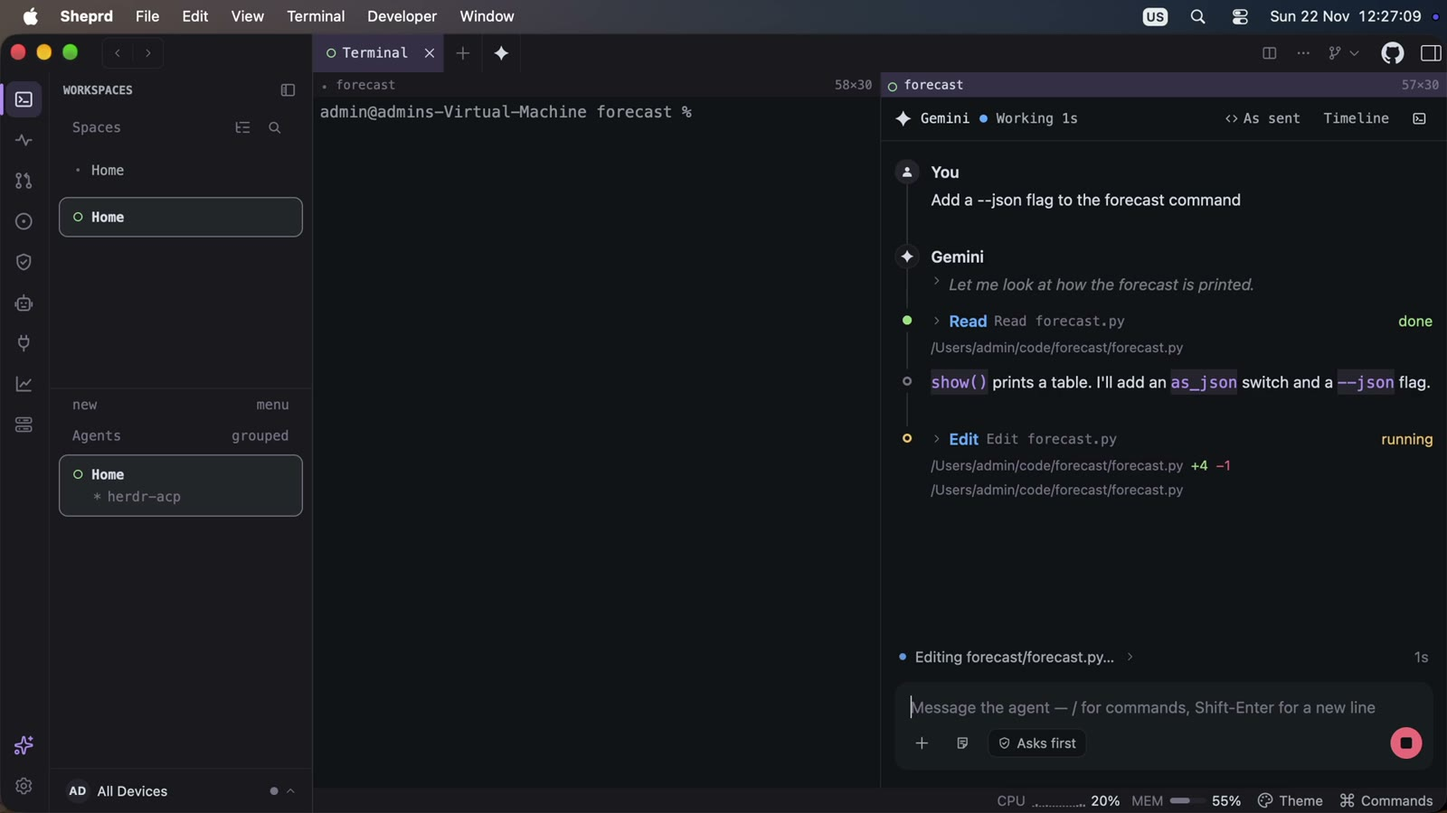
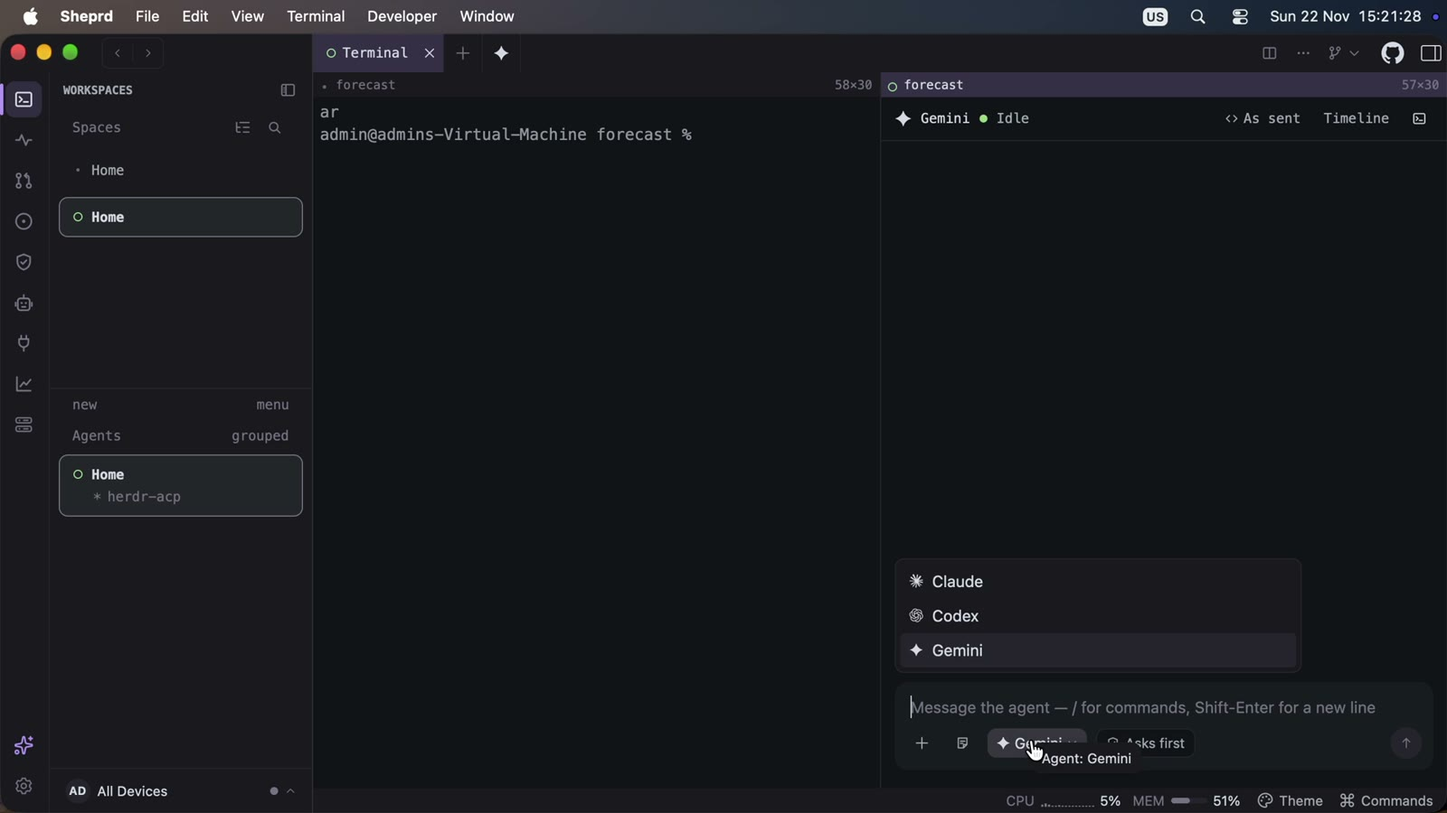
feat(site): show switching agents in the agent chat guide
The guide starts its chat from the agent button beside the new tab button, as the app offers it, and shows the agent menu that switches between Claude, Codex, Gemini and the others installed. Its page explains both.

diff --git a/website/site/features/index.html b/website/site/features/index.html
@@ -35,10 +35,10 @@
 <p class="feature-count" aria-live="polite"><span id="feature-count">5</span> of 5 features</p>
 </search>
 <ul class="feature-grid" id="feature-grid"><li class="feature-card" data-id="agent-chat" data-category="Agents"><a href="/features/agent-chat/">
-<span class="card-media"><img src="/assets/feature-clips/agent-chat.jpg" width="1600" height="900" loading="lazy" alt=""><span class="card-time">▶ 0:27</span></span>
+<span class="card-media"><img src="/assets/feature-clips/agent-chat.jpg" width="1600" height="900" loading="lazy" alt=""><span class="card-time">▶ 0:33</span></span>
 <span class="card-meta">01 / Agents</span>
 <span class="card-title">Native agent chats</span>
-<span class="card-dek">Your coding agents in a real chat, beside the terminal. Every file read, edit and test run is a card you can open.</span></a></li><li class="feature-card" data-id="review-changes" data-category="Review"><a href="/features/review-changes/">
+<span class="card-dek">Claude, Codex, Gemini and more in a real chat beside the terminal. Switch agents any time; every read, edit and test run is a card you can open.</span></a></li><li class="feature-card" data-id="review-changes" data-category="Review"><a href="/features/review-changes/">
 <span class="card-media"><img src="/assets/feature-clips/review-changes.jpg" width="1600" height="900" loading="lazy" alt=""><span class="card-time">▶ 0:22</span></span>
 <span class="card-meta">02 / Review</span>
 <span class="card-title">Review Changes</span>
@@ -56,7 +56,7 @@
 <span class="card-title">Themes with live preview</span>
 <span class="card-dek">Dark, light, or somewhere in between. Preview a theme across the whole window before you make it yours.</span></a></li></ul>
 <p class="feature-empty" id="feature-empty" hidden>Nothing matches yet. Try another word, or <a href="/docs/">search the documentation</a>.</p>
-<script type="application/json" id="feature-index">[{"id": "agent-chat", "category": "Agents", "text": "Native agent chats Agents Talk to your agents. See their work. Your coding agents in a real chat, beside the terminal. Every file read, edit and test run is a card you can open. ACP agent chat claude codex gemini assistant conversation prompt tool calls Start a chat Click the sparkle button in the tab bar for a new agent chat in the current workspace. Ask for the change Type what you need and press Return. The agent works in your checkout. Follow every step Each read, edit and command shows as a card with its files and output, so nothing happens out of sight. Sheprd runs your coding agents in native chats, beside your terminal. Sheprd fait tourner vos agents de code dans de vrais chats, à côté de votre terminal. Start one with the sparkle button, and ask for what you need. Lancez-en un avec le bouton étincelle, et demandez ce qu'il vous faut. The agent reads your code, makes the change and runs the tests, step by step. L'agent lit votre code, fait la modification et lance les tests, étape par étape. Every step is a card: what it read, the lines it changed, and what the tests said. Chaque étape est une carte : ce qu'il a lu, les lignes modifiées, et le résultat des tests. And the answer arrives formatted, ready for you to review. Et la réponse arrive mise en forme, prête à être relue."}, {"id": "review-changes", "category": "Review", "text": "Review Changes Review Read it before it ships. Every file an agent touched, beside the code it replaces, with notes that go straight back to the agent. diff git code review notes comments uncommitted branch viewed Open Review Changes Search for it in the command palette. It lists every file with uncommitted changes, or everything since the base branch. Note what should change Click a line number, describe the change and add the note. Notes go to the workspace's agent. Keep track Mark each file viewed once it looks right, and hide viewed files to see what is left. Before you ship what an agent wrote, review it in Sheprd. Avant de livrer ce qu'un agent a écrit, relisez-le dans Sheprd. Open Review Changes from the palette: every file the work touched. Ouvrez « Relire les changements » depuis la palette : chaque fichier modifié. Each change sits beside the code it replaces. Chaque modification s'affiche face au code qu'elle remplace. Click a line number to leave a note for the agent. Cliquez sur un numéro de ligne pour laisser une note à l'agent. Then mark the file viewed, and move on to the next. Puis marquez le fichier comme vu, et passez au suivant."}, {"id": "command-palette", "category": "Navigation", "text": "The command palette Navigation Everything, one shortcut away. Workspaces, terminals, agents and every command in one list. Type a few letters, press Return. search shortcut keyboard actions commands navigation quick open Open it Press Command Shift P (Control Shift P on Linux and Windows). Type and go A few letters find a workspace, a terminal, an agent or a command. Return runs it. Narrow it down The chips at the top keep only navigation, commands, projects or notes. Everything in Sheprd is a few keystrokes away, in the command palette. Dans Sheprd, tout est à quelques touches, dans la palette de commandes. Press Command Shift P: workspaces, terminals, agents and commands, in one list. Appuyez sur Commande Majuscule P : espaces de travail, terminaux, agents et commandes, dans une seule liste. Type a few letters and press Return. Here, a split beside the terminal. Tapez quelques lettres et appuyez sur Entrée. Ici, une division à côté du terminal. The chips at the top narrow the list, for example to commands only. Les filtres du haut réduisent la liste, par exemple aux seules commandes. Escape closes it, right where you left off. Échap la ferme, et vous reprenez là où vous en étiez."}, {"id": "browser-tabs", "category": "Browser", "text": "Browser tabs Browser The web, beside your terminal. Preview what your agents build and point at what should change, without leaving Sheprd. web page preview localhost annotate notes webview url Open a browser tab Press Command Shift B and type an address. Preview as you work Keep the page next to the agent building it, and reload as it changes. Point at the change Annotate, then click an element or select text, and describe what should change. Web pages open in tabs, right beside your terminals. Les pages web s'ouvrent dans des onglets, juste à côté de vos terminaux. Press Command Shift B for a browser tab, and type an address. Appuyez sur Commande Majuscule B pour un onglet de navigateur, et tapez une adresse. It's a real browser: preview what your agent is building without leaving Sheprd. C'est un vrai navigateur : prévisualisez ce que construit votre agent sans quitter Sheprd. Annotate lets you point at anything on the page and describe the change you want. Annoter vous permet de désigner n'importe quel élément de la page et de décrire le changement voulu. Your notes go straight to the agent that opened the page. Vos notes partent directement à l'agent qui a ouvert la page."}, {"id": "themes", "category": "Appearance", "text": "Themes with live preview Appearance Make yourself at home. Dark, light, or somewhere in between. Preview a theme across the whole window before you make it yours. theme colors dark light mode color scheme appearance ghostty Open the theme picker Search for themes in the command palette, or open Settings, Theme. See it before you settle Move through the list and the whole window changes. Try a light theme, then a dark one. Keep the one you like Type to filter, then press Return to keep it. Sheprd lets you change its whole look in seconds. Sheprd change entièrement d'apparence en quelques secondes. Sheprd cambia todo su aspecto en segundos. Sheprd ändert sein ganzes Aussehen in Sekunden. O Sheprd muda todo o visual em segundos. Sheprd の見た目は、数秒でまるごと変えられます。 几秒钟就能改变 Sheprd 的整体外观。 Open the command palette with Command Shift P, and search for themes. Ouvrez la palette de commandes avec Commande Majuscule P, puis cherchez « thèmes ». Abre la paleta de comandos con Comando Mayúsculas P y busca «temas». Öffnen Sie die Befehlspalette mit Befehl Umschalt P und suchen Sie nach Themes. Abra a paleta de comandos com Command Shift P e procure por temas. Command Shift P でコマンドパレットを開き、テーマを検索します。 按 Command Shift P 打开命令面板，搜索“主题”。 Move through the list: every theme previews live, across the whole window. Parcourez la liste : chaque thème s'applique en direct à toute la fenêtre. Recorre la lista: cada tema se previsualiza en vivo en toda la ventana. Gehen Sie die Liste durch: Jedes Theme erscheint sofort im ganzen Fenster. Percorra a lista: cada tema aparece ao vivo na janela inteira. リストを移動すると、各テーマがウィンドウ全体にすぐ反映されます。 在列表中移动，每个主题都会实时应用到整个窗口。 Type to filter, then press Return to keep the one you like. Tapez pour filtrer, puis appuyez sur Entrée pour garder celui qui vous plaît. Escribe para filtrar y pulsa Intro para quedarte con el que te guste. Tippen Sie zum Filtern und drücken Sie Return, um Ihr Lieblings-Theme zu behalten. Digite para filtrar e pressione Return para ficar com o que você gostou. 入力して絞り込み、Return キーで気に入ったテーマを保存します。 输入文字进行筛选，按回车键保留你喜欢的主题。 It's saved, and you can change it again anytime. C'est enregistré, et vous pouvez en changer à tout moment. Queda guardado, y puedes cambiarlo cuando quieras. Es ist gespeichert, und Sie können es jederzeit wieder ändern. Fica salvo, e você pode mudar quando quiser. 設定は保存され、いつでも変更できます。 设置会被保存，你随时都可以再次更改。"}]</script>
+<script type="application/json" id="feature-index">[{"id": "agent-chat", "category": "Agents", "text": "Native agent chats Agents Talk to your agents. See their work. Claude, Codex, Gemini and more in a real chat beside the terminal. Switch agents any time; every read, edit and test run is a card you can open. ACP agent chat claude codex gemini copilot opencode kimi pi switch agent assistant conversation prompt tool calls Start a chat Click the agent button next to the new tab button. It starts the agent you used last; hover it to pick another. Pick your agent The agent menu under the message box switches the chat to Claude, Codex, Gemini, Copilot, OpenCode, Kimi or Pi, whichever you have installed. Follow every step Each read, edit and command shows as a card with its files and output, so nothing happens out of sight. Sheprd runs your coding agents in native chats, beside your terminal. Sheprd fait tourner vos agents de code dans de vrais chats, à côté de votre terminal. Start one with the agent button, right next to the new tab button. Lancez-en un avec le bouton d'agent, juste à côté du bouton de nouvel onglet. Switch agents any time: Claude, Codex, Gemini, or any other you have installed. Changez d'agent à tout moment : Claude, Codex, Gemini, ou tout autre agent installé. Ask for what you need. The agent reads your code, makes the change and runs the tests. Demandez ce qu'il vous faut. L'agent lit votre code, fait la modification et lance les tests. Every step is a card: what it read, the lines it changed, and what the tests said. Chaque étape est une carte : ce qu'il a lu, les lignes modifiées, et le résultat des tests. And the answer arrives formatted, ready for you to review. Et la réponse arrive mise en forme, prête à être relue."}, {"id": "review-changes", "category": "Review", "text": "Review Changes Review Read it before it ships. Every file an agent touched, beside the code it replaces, with notes that go straight back to the agent. diff git code review notes comments uncommitted branch viewed Open Review Changes Search for it in the command palette. It lists every file with uncommitted changes, or everything since the base branch. Note what should change Click a line number, describe the change and add the note. Notes go to the workspace's agent. Keep track Mark each file viewed once it looks right, and hide viewed files to see what is left. Before you ship what an agent wrote, review it in Sheprd. Avant de livrer ce qu'un agent a écrit, relisez-le dans Sheprd. Open Review Changes from the palette: every file the work touched. Ouvrez « Relire les changements » depuis la palette : chaque fichier modifié. Each change sits beside the code it replaces. Chaque modification s'affiche face au code qu'elle remplace. Click a line number to leave a note for the agent. Cliquez sur un numéro de ligne pour laisser une note à l'agent. Then mark the file viewed, and move on to the next. Puis marquez le fichier comme vu, et passez au suivant."}, {"id": "command-palette", "category": "Navigation", "text": "The command palette Navigation Everything, one shortcut away. Workspaces, terminals, agents and every command in one list. Type a few letters, press Return. search shortcut keyboard actions commands navigation quick open Open it Press Command Shift P (Control Shift P on Linux and Windows). Type and go A few letters find a workspace, a terminal, an agent or a command. Return runs it. Narrow it down The chips at the top keep only navigation, commands, projects or notes. Everything in Sheprd is a few keystrokes away, in the command palette. Dans Sheprd, tout est à quelques touches, dans la palette de commandes. Press Command Shift P: workspaces, terminals, agents and commands, in one list. Appuyez sur Commande Majuscule P : espaces de travail, terminaux, agents et commandes, dans une seule liste. Type a few letters and press Return. Here, a split beside the terminal. Tapez quelques lettres et appuyez sur Entrée. Ici, une division à côté du terminal. The chips at the top narrow the list, for example to commands only. Les filtres du haut réduisent la liste, par exemple aux seules commandes. Escape closes it, right where you left off. Échap la ferme, et vous reprenez là où vous en étiez."}, {"id": "browser-tabs", "category": "Browser", "text": "Browser tabs Browser The web, beside your terminal. Preview what your agents build and point at what should change, without leaving Sheprd. web page preview localhost annotate notes webview url Open a browser tab Press Command Shift B and type an address. Preview as you work Keep the page next to the agent building it, and reload as it changes. Point at the change Annotate, then click an element or select text, and describe what should change. Web pages open in tabs, right beside your terminals. Les pages web s'ouvrent dans des onglets, juste à côté de vos terminaux. Press Command Shift B for a browser tab, and type an address. Appuyez sur Commande Majuscule B pour un onglet de navigateur, et tapez une adresse. It's a real browser: preview what your agent is building without leaving Sheprd. C'est un vrai navigateur : prévisualisez ce que construit votre agent sans quitter Sheprd. Annotate lets you point at anything on the page and describe the change you want. Annoter vous permet de désigner n'importe quel élément de la page et de décrire le changement voulu. Your notes go straight to the agent that opened the page. Vos notes partent directement à l'agent qui a ouvert la page."}, {"id": "themes", "category": "Appearance", "text": "Themes with live preview Appearance Make yourself at home. Dark, light, or somewhere in between. Preview a theme across the whole window before you make it yours. theme colors dark light mode color scheme appearance ghostty Open the theme picker Search for themes in the command palette, or open Settings, Theme. See it before you settle Move through the list and the whole window changes. Try a light theme, then a dark one. Keep the one you like Type to filter, then press Return to keep it. Sheprd lets you change its whole look in seconds. Sheprd change entièrement d'apparence en quelques secondes. Sheprd cambia todo su aspecto en segundos. Sheprd ändert sein ganzes Aussehen in Sekunden. O Sheprd muda todo o visual em segundos. Sheprd の見た目は、数秒でまるごと変えられます。 几秒钟就能改变 Sheprd 的整体外观。 Open the command palette with Command Shift P, and search for themes. Ouvrez la palette de commandes avec Commande Majuscule P, puis cherchez « thèmes ». Abre la paleta de comandos con Comando Mayúsculas P y busca «temas». Öffnen Sie die Befehlspalette mit Befehl Umschalt P und suchen Sie nach Themes. Abra a paleta de comandos com Command Shift P e procure por temas. Command Shift P でコマンドパレットを開き、テーマを検索します。 按 Command Shift P 打开命令面板，搜索“主题”。 Move through the list: every theme previews live, across the whole window. Parcourez la liste : chaque thème s'applique en direct à toute la fenêtre. Recorre la lista: cada tema se previsualiza en vivo en toda la ventana. Gehen Sie die Liste durch: Jedes Theme erscheint sofort im ganzen Fenster. Percorra a lista: cada tema aparece ao vivo na janela inteira. リストを移動すると、各テーマがウィンドウ全体にすぐ反映されます。 在列表中移动，每个主题都会实时应用到整个窗口。 Type to filter, then press Return to keep the one you like. Tapez pour filtrer, puis appuyez sur Entrée pour garder celui qui vous plaît. Escribe para filtrar y pulsa Intro para quedarte con el que te guste. Tippen Sie zum Filtern und drücken Sie Return, um Ihr Lieblings-Theme zu behalten. Digite para filtrar e pressione Return para ficar com o que você gostou. 入力して絞り込み、Return キーで気に入ったテーマを保存します。 输入文字进行筛选，按回车键保留你喜欢的主题。 It's saved, and you can change it again anytime. C'est enregistré, et vous pouvez en changer à tout moment. Queda guardado, y puedes cambiarlo cuando quieras. Es ist gespeichert, und Sie können es jederzeit wieder ändern. Fica salvo, e você pode mudar quando quiser. 設定は保存され、いつでも変更できます。 设置会被保存，你随时都可以再次更改。"}]</script>
 </main>
 <footer class="feature-footer wrap"><a class="brand" href="/">Sheprd</a><p>Your agents. One place.</p><a href="/docs/">Read the docs ↗</a></footer>
 </body></html>

diff --git a/website/site/features/agent-chat/index.html b/website/site/features/agent-chat/index.html
@@ -1,7 +1,7 @@
 <!doctype html>
 <html lang="en"><head>
 <meta charset="utf-8"><meta name="viewport" content="width=device-width, initial-scale=1">
-<title>Native agent chats · Sheprd</title><meta name="description" content="Run coding agents in native chats beside your terminal, and follow each read, edit and test run.">
+<title>Native agent chats · Sheprd</title><meta name="description" content="Run Claude, Codex, Gemini and other coding agents in native chats beside your terminal, switch between them, and follow each step.">
 <link rel="canonical" href="https://sheprd.org/features/agent-chat/">
 <link rel="icon" href="/assets/paw.svg"><link rel="stylesheet" href="/assets/base.css"><link rel="stylesheet" href="/assets/site.css"><link rel="stylesheet" href="/assets/feature-pages.css">
 <script src="/assets/feature-demo.js" defer></script></head><body class="feature-page">
@@ -24,14 +24,14 @@
 </header>
 <main id="main" class="wrap">
 <div class="feature-breadcrumb"><a href="/features/">← All features</a><span>01 / Agents</span></div>
-<section class="feature-title"><div><p class="kicker">Native agent chats</p><h1>Talk to your agents.<br>See their work.</h1></div><p class="feature-dek">Your coding agents in a real chat, beside the terminal. Every file read, edit and test run is a card you can open.</p></section>
+<section class="feature-title"><div><p class="kicker">Native agent chats</p><h1>Talk to your agents.<br>See their work.</h1></div><p class="feature-dek">Claude, Codex, Gemini and more in a real chat beside the terminal. Switch agents any time; every read, edit and test run is a card you can open.</p></section>
 <figure class="demo"><video id="feature-demo" controls playsinline preload="metadata" poster="/assets/feature-clips/agent-chat.jpg" data-clips="/assets/feature-clips/agent-chat" data-window="moonframe" aria-label="Native agent chats, narrated demonstration">
 <source src="/assets/feature-clips/agent-chat.moonframe.en.mp4" type="video/mp4"><track kind="captions" src="/assets/feature-clips/agent-chat.moonframe.en.vtt" srclang="en" label="English">
 <a href="/assets/feature-clips/agent-chat.moonframe.en.mp4">Download the demo</a>.</video>
-<figcaption><span class="demo-switches"><span class="demo-langs" role="group" aria-label="Window"><button type="button" data-window="moonframe" aria-pressed="true">Moonframe</button><button type="button" data-window="classic" aria-pressed="false">Classic</button></span><span class="demo-langs" role="group" aria-label="Narration language"><button type="button" data-lang="en" aria-pressed="true" lang="en">English</button><button type="button" data-lang="fr" aria-pressed="false" lang="fr">Français</button></span></span><span>27 seconds · narration &amp; captions</span></figcaption></figure>
-<nav class="demo-chapters" aria-label="Video chapters"><button type="button" data-seek="5.75"><span>01</span> Start a chat <time>0:05</time></button><button type="button" data-seek="10.09"><span>02</span> Watch it work <time>0:10</time></button><button type="button" data-seek="21.74"><span>03</span> Read the answer <time>0:21</time></button></nav>
-<section class="feature-how"><div><p class="kicker">Try it yourself</p><h2>Native agent chats</h2><a class="text-link" href="/docs/chat/">Agent chats ↗</a></div><ol><li><h3>Start a chat</h3><p>Click the sparkle button in the tab bar for a new agent chat in the current workspace.</p></li><li><h3>Ask for the change</h3><p>Type what you need and press Return. The agent works in your checkout.</p></li><li><h3>Follow every step</h3><p>Each read, edit and command shows as a card with its files and output, so nothing happens out of sight.</p></li></ol></section>
-<details class="demo-transcript"><summary>Read the video transcript</summary><p>Sheprd runs your coding agents in native chats, beside your terminal.</p><p>Start one with the sparkle button, and ask for what you need.</p><p>The agent reads your code, makes the change and runs the tests, step by step.</p><p>Every step is a card: what it read, the lines it changed, and what the tests said.</p><p>And the answer arrives formatted, ready for you to review.</p></details>
+<figcaption><span class="demo-switches"><span class="demo-langs" role="group" aria-label="Window"><button type="button" data-window="moonframe" aria-pressed="true">Moonframe</button><button type="button" data-window="classic" aria-pressed="false">Classic</button></span><span class="demo-langs" role="group" aria-label="Narration language"><button type="button" data-lang="en" aria-pressed="true" lang="en">English</button><button type="button" data-lang="fr" aria-pressed="false" lang="fr">Français</button></span></span><span>34 seconds · narration &amp; captions</span></figcaption></figure>
+<nav class="demo-chapters" aria-label="Video chapters"><button type="button" data-seek="5.75"><span>01</span> Start a chat <time>0:05</time></button><button type="button" data-seek="10.41"><span>02</span> Switch agents <time>0:10</time></button><button type="button" data-seek="16.76"><span>03</span> Watch it work <time>0:16</time></button><button type="button" data-seek="28.66"><span>04</span> Read the answer <time>0:28</time></button></nav>
+<section class="feature-how"><div><p class="kicker">Try it yourself</p><h2>Native agent chats</h2><a class="text-link" href="/docs/chat/">Agent chats ↗</a></div><ol><li><h3>Start a chat</h3><p>Click the agent button next to the new tab button. It starts the agent you used last; hover it to pick another.</p></li><li><h3>Pick your agent</h3><p>The agent menu under the message box switches the chat to Claude, Codex, Gemini, Copilot, OpenCode, Kimi or Pi, whichever you have installed.</p></li><li><h3>Follow every step</h3><p>Each read, edit and command shows as a card with its files and output, so nothing happens out of sight.</p></li></ol></section>
+<details class="demo-transcript"><summary>Read the video transcript</summary><p>Sheprd runs your coding agents in native chats, beside your terminal.</p><p>Start one with the agent button, right next to the new tab button.</p><p>Switch agents any time: Claude, Codex, Gemini, or any other you have installed.</p><p>Ask for what you need. The agent reads your code, makes the change and runs the tests.</p><p>Every step is a card: what it read, the lines it changed, and what the tests said.</p><p>And the answer arrives formatted, ready for you to review.</p></details>
 <nav class="feature-pager" aria-label="More features"><a rel="prev" href="/features/themes/"><span>← Previous</span>Themes with live preview</a><a rel="next" href="/features/review-changes/"><span>Next →</span>Review Changes</a></nav>
 </main>
 <footer class="feature-footer wrap"><a class="brand" href="/">Sheprd</a><p>Your agents. One place.</p><a href="/docs/">Read the docs ↗</a></footer>

diff --git a/scripts/screencast/features/agent-chat.md b/scripts/screencast/features/agent-chat.md
@@ -6,17 +6,21 @@ en: Sheprd runs your coding agents in native chats, beside your terminal.
 fr: Sheprd fait tourner vos agents de code dans de vrais chats, à côté de votre terminal.
 
 ## 2
-en: Start one with the sparkle button, and ask for what you need.
-fr: Lancez-en un avec le bouton étincelle, et demandez ce qu'il vous faut.
+en: Start one with the agent button, right next to the new tab button.
+fr: Lancez-en un avec le bouton d'agent, juste à côté du bouton de nouvel onglet.
 
 ## 3
-en: The agent reads your code, makes the change and runs the tests, step by step.
-fr: L'agent lit votre code, fait la modification et lance les tests, étape par étape.
+en: Switch agents any time: Claude, Codex, Gemini, or any other you have installed.
+fr: Changez d'agent à tout moment : Claude, Codex, Gemini, ou tout autre agent installé.
 
 ## 4
+en: Ask for what you need. The agent reads your code, makes the change and runs the tests.
+fr: Demandez ce qu'il vous faut. L'agent lit votre code, fait la modification et lance les tests.
+
+## 5
 en: Every step is a card: what it read, the lines it changed, and what the tests said.
 fr: Chaque étape est une carte : ce qu'il a lu, les lignes modifiées, et le résultat des tests.
 
-## 5
+## 6
 en: And the answer arrives formatted, ready for you to review.
 fr: Et la réponse arrive mise en forme, prête à être relue.
